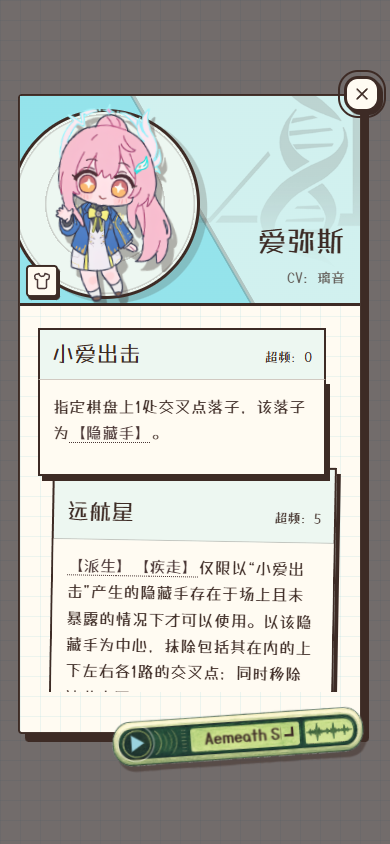
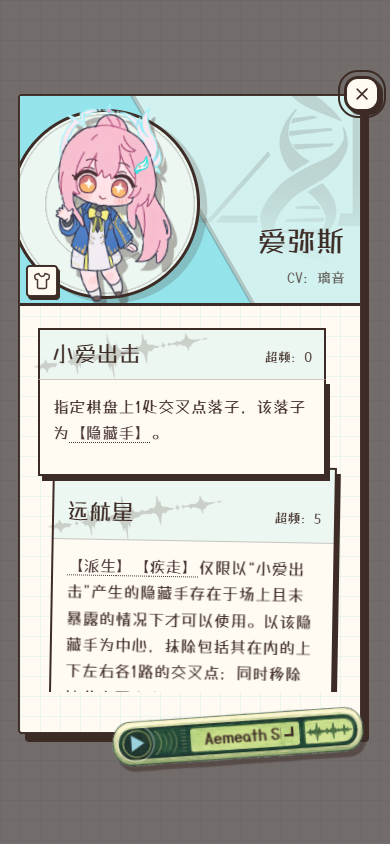
feat(ui): add tacet mark to character skill cards

diff --git a/docs/system-design.html b/docs/system-design.html
@@ -54,7 +54,7 @@
 <body>
 <h1>SigrikaGo 系统设计</h1>
 <h3>2026-10-22 角色详情游戏展示三版样板</h3>
-<p>按「游戏角色页，不是说明文」的反馈重做<a href="./design-samples/handbook-paper-2026-10-22/index.html">部员手册角色详情比较页</a>：角色展示台强调大立绘、角色专色和圆形底台；战术卡册使用深墨角色卡与专色环纹；漫画分镜采用网点、爆发纹和尖角对白框。第1版进一步加入角落超大裁切徽记与原网格背景，立绘底板用当前主题色与浅色近似各半拼接，交界参照父技能卡与派生卡的叠放关系，用同主题浅色细边和短实阴影表现前层压住后层，斜线边缘以小于1px的颜色覆盖平滑锯齿；手机分割线从上往下切割并相对竖直方向倾斜约30度，放大收音机悬在右下并将关闭按钮中心放在右上纸角；正文滚动区为外伸控件预留空间。关闭按钮进一步对齐项目常用圆角方形纸色与墨边硬阴影，悬停不显示额外外圈、保留键盘焦点反馈；派生卡错位叠在父技能下方，标题与正文分色，简介悬停取消下划线并在左上加入无外围短线的手绘黑白棋装饰。收音机播放／暂停键悬停不再改变图标与圆环颜色，保留各播放状态的颜色、按下和焦点反馈。隐藏获得途径、去掉CV下划线；手机立绘居左、姓名与CV居右下，服装入口为立绘区左下角贴边6px的32px小方形图标按钮，优先减少对立绘的遮挡。三版保留墨色厚阴影、悬停／按下反馈与手机竖屏布局，技能名、超频、CV 和获得方式仍不使用标签式圆角矩形。第1版现已接入正式角色详情：复用衣柜、音乐、特性说明、肖像解析及既有阵营映射，保留语音、Escape和焦点返回。CSS由原角色详情入口统一导入layout/art/heading/cards/controls五个限定范围的owner；徽记仅对已拥有且有映射的角色启用，棋子装饰迁移到公共UI资源，视口留白包含安全区。比较页仍使用公开目录快照和内存预览状态，不连接账号写入。布局取舍与验证见<a href="./design-samples/handbook-paper-2026-10-22/README.md">样板说明</a>。</p>
+<p>按「游戏角色页，不是说明文」的反馈重做<a href="./design-samples/handbook-paper-2026-10-22/index.html">部员手册角色详情比较页</a>：角色展示台强调大立绘、角色专色和圆形底台；战术卡册使用深墨角色卡与专色环纹；漫画分镜采用网点、爆发纹和尖角对白框。第1版进一步加入角落超大裁切徽记与原网格背景，立绘底板用当前主题色与浅色近似各半拼接，交界参照父技能卡与派生卡的叠放关系，用同主题浅色细边和短实阴影表现前层压住后层，斜线边缘以小于1px的颜色覆盖平滑锯齿；手机分割线从上往下切割并相对竖直方向倾斜约30度，放大收音机悬在右下并将关闭按钮中心放在右上纸角；正文滚动区为外伸控件预留空间。关闭按钮进一步对齐项目常用圆角方形纸色与墨边硬阴影，悬停不显示额外外圈、保留键盘焦点反馈；派生卡错位叠在父技能下方，标题与正文分色，简介悬停取消下划线并在左上加入无外围短线的手绘黑白棋装饰。收音机播放／暂停键悬停不再改变图标与圆环颜色，保留各播放状态的颜色、按下和焦点反馈。技能卡左上新增高清透明声痕底纹，普通技与派生技共用，淡墨色置于技能名背后，简介保留黑白棋装饰以区分卡片类型；素材来源及高清化记录见<a href="./design-samples/handbook-paper-2026-10-22/tacet-mark-source.md">声痕素材说明</a>。隐藏获得途径、去掉CV下划线；手机立绘居左、姓名与CV居右下，服装入口为立绘区左下角贴边6px的32px小方形图标按钮，优先减少对立绘的遮挡。三版保留墨色厚阴影、悬停／按下反馈与手机竖屏布局，技能名、超频、CV 和获得方式仍不使用标签式圆角矩形。第1版现已接入正式角色详情：复用衣柜、音乐、特性说明、肖像解析及既有阵营映射，保留语音、Escape和焦点返回。CSS由原角色详情入口统一导入layout/art/heading/cards/controls五个限定范围的owner；徽记仅对已拥有且有映射的角色启用，棋子装饰迁移到公共UI资源，视口留白包含安全区。比较页仍使用公开目录快照和内存预览状态，不连接账号写入。布局取舍与验证见<a href="./design-samples/handbook-paper-2026-10-22/README.md">样板说明</a>。</p>
 <h3>2026-10-22 观战纸卡正式接入</h3>
 <p>已将确认的<a href="./design-samples/watch-paper-2026-10-22/index.html">观战纸卡方案</a>接入正式 <code>WatchModal</code>。搜索框与好友一体纸框保持一致，无额外聚焦边框，继续输入即时筛选且不增加搜索按钮；卡片保留厚阴影及悬停／按下反馈。已结束对局使用浅灰背景，悬停与按下仍保持灰色，保留原观战入口、头像、身份、人数及手数吊牌。手机每场一张卡，<code>useWatchListRows</code> 按可用高度与名称自然高度安排完整行，保留滚动吸附和阴影余量。查询、刷新、错误恢复与入场流程不变；独立预览已改用生产样式与 hook，仍仅提供本地示例房间。桌面／竖屏与结束状态验证见<a href="./design-samples/watch-paper-2026-10-22/README.md">说明及截图</a>，布局契约见 <a href="./system-design/06-ui-theme-mobile.md">UI 主题分篇</a>。</p>
 <h3>2026-10-22 仓库纸卡布局正式接入</h3>

diff --git a/src/styles/cssLayerInventory.js b/src/styles/cssLayerInventory.js
@@ -1,3 +1,4 @@
+// 2026-10-22: handbook skill-title Tacet Mark adds 410 normalized CSS bytes; other metrics are unchanged.
 // 2026-10-22: approved handbook detail stage replaces the figure owner with five bounded owners; task-only delta {"totalFiles":5,"totalBytes":15608,"importantCount":229,"importantFiles":4,"hardcodedHexCount":2,"mediaFiles":4,"reducedMotionFiles":2,"highZIndexFiles":0}.
 // 2026-10-14: explicit match confirmation, practice dialogue and focus preference; {"totalFiles": 2, "totalBytes": 5667, "importantCount": 29, "importantFiles": 2, "hardcodedHexCount": 0, "mediaFiles": 2, "reducedMotionFiles": 0, "highZIndexFiles": 0}
 // 2026-10-10: team profile polish reuses existing owners; {"totalBytes": 717, "importantCount": 39, "hardcodedHexCount": -2}
@@ -12,7 +13,7 @@ export const CSS_DEBT_BASELINE = {
   scope: "Window loading adds 1035 normalized bytes, three targeted important declarations and reduced-motion coverage in the existing empty-state owner. Ordinary button states replace three repeated selector lists with one nested state owner, add complete press/focus/disabled/reduced-motion rules, and retire generic icon/action motion selectors. Specialty button opt-in removes dossier, purchase and recruitment state duplication while retaining artwork and geometry. All CSS files under src/styles after the import-only split work, including the focused normal/corrupted theme-transition visual structure and reduced-motion owners, the focused corrupted-duel atmosphere, panel, timer, control, icon, secondary-surface, mobile-readability, portaled system-log, lifecycle, replay/result, and dialogue/fake-skill presentation owners, the ten focused production IRIS Database V2 entry/shell/greeting/portrait/archive/record/theme/typography owners with image-free desktop/mobile art reservations and the scoped Dotted Songti Circle plus WuWa Latin/numeric font stack, the shared and Bright School character-music-player subdomains with the transparent hand-painted radio shell, contained alpha-safe asset geometry, and painted-circle control alignment, admin story node settings CSS and story workbook import feedback, frontend layout polish contracts including story-player padding, game-mode icon watermark/player-plaque/nameplate/utility image contracts, the asset-owned open-starlight rune-ink Semantic Ignition with a persistent rim, separated open-center left-to-right filaments/contour streams, and paired right-tail streaks, Danya off-center pearlescent dream bubble, and Aemeath paper-flight beacon nameplate shells plus their reduced-motion owners, Aemeath exact-ID ice-white username treatment, separated paper-wake and perimeter traces, paired right-tail light, the board-owned Aemeath rainbow grid-trace and particle owners with their reduced-motion fallback, the owned-only holographic memorial-ticket action, isolated Pink Cyber Angel sprite-atlas recruitment cinematic, player-mailbox text-only low-chrome list, completion-state dimming, quiet paper reader, independent item/coin tiles, portaled shop-style item detail, quantity/claimed overlays, light-green mail toast, claimed-attachment action state, and final post-theme readability contract, stable desktop utility-art tilt with direction-preserving hover rotation and scale compensation, tutorial reply-option overflow containment, mobile announcement badge anchoring, mobile utility-image feedback containment, the semantic Bright School login header with its responsive mascot-panel composition and extended layered paper-rule shelf, the dedicated 900px mobile-layout login mascot lockup owner plus accessible auth field, password-visibility, pending, short-height scrolling, and reduced-motion rules, the shared orange preload fill-flow, borderless warm-glow, upright endpoint-glide, and disabled password-toggle centering owners, the shared/theme/final-mobile Zahira shop window plus card-layout isolation, compact-height, badge, desktop raster background, dedicated portrait raster background, and enlarged mascot-copy owner files, the deep-red theatrical costume storefront with a separate card/art owner, portaled wardrobe dialog, split responsive wardrobe layout, Bright School costume overlay owners, and home-scoped portrait width guard, cloud-deployment mobile floating layer tokens, transform-surface compositor hints, semantic home/window title typography, the full-width 16px watch-mode tabs with one-em room-count spacing, the final Bright School practice-entry rotation, reduced-motion behavior, and home-utility hard-shadow parity owner, the shared skill-trait description popover, admin glossary, mobile character-detail scrolling owner rules, the scoped Bright School root scrollbar, final portrait modal shadow-gutter, admin neutral scrollbar owners, and the Bright School unobtained-roster monochrome CRT surface, hidden-intel monitor, and shared signal-fault motion owners.",
   metrics: {
     totalFiles: 763,
-    totalBytes: 1771904,
+    totalBytes: 1772314,
     importantCount: 10554,
     importantFiles: 416,
     hardcodedHexCount: 2490,

diff --git a/src/styles/mobile-adaptive/handbook-detail-cards.css b/src/styles/mobile-adaptive/handbook-detail-cards.css
@@ -1,5 +1,20 @@
 .character-detail-figure-backdrop,
 .app-shell.player-theme-enabled.theme-bright-school.theme-bright-school .character-detail-figure-backdrop {
+  .skill-title-row { position: relative; isolation: isolate; }
+  .skill-title-row::before {
+    content: "";
+    position: absolute;
+    z-index: -1;
+    top: -14px;
+    left: -9px;
+    width: 180px;
+    height: 72px;
+    background: var(--detail-ink);
+    mask: url('/assets/ui/handbook-tacet-mark.png') center / contain no-repeat;
+    opacity: .2;
+    transform: rotate(-9deg);
+    pointer-events: none;
+  }
   .skill-title-row { display: flex !important; align-items: baseline !important; flex-wrap: wrap !important; justify-content: space-between !important; gap: 6px 18px !important; border-radius: 0 !important; box-shadow: none !important; padding: 9px 12px !important; margin: 0 !important; border: 2px solid var(--detail-ink) !important; border-bottom: 0 !important; background: var(--detail-tint) !important; }
   .skill-title-row strong { display: inline !important; padding: 0 !important; border: 0 !important; border-radius: 0 !important; background: transparent !important; font: 400 23px/1.4 var(--font-window-title) !important; text-decoration-color: color-mix(in srgb, var(--character-theme-color) 48%, transparent); text-decoration-thickness: 5px; text-underline-offset: -2px; text-decoration-skip-ink: none; font-size: 25px !important; text-decoration: none !important; }
   .skill-overclock-badge { display: inline !important; min-height: 0 !important; padding: 0 !important; border: 0 !important; border-radius: 0 !important; background: transparent !important; box-shadow: none !important; color: var(--detail-ink) !important; font: 400 14px/1.5 var(--font-ui-default) !important; }

diff --git a/docs/system-design.md b/docs/system-design.md
@@ -2,7 +2,7 @@
 
 ### 2026-10-22 角色详情游戏展示三版样板
 
-按「游戏角色页，不是说明文」的反馈重做[部员手册角色详情比较页](./design-samples/handbook-paper-2026-10-22/index.html)：角色展示台强调大立绘、角色专色和圆形底台；战术卡册使用深墨角色卡与专色环纹；漫画分镜采用网点、爆发纹和尖角对白框。第1版进一步加入角落超大裁切徽记与原网格背景，立绘底板用当前主题色与浅色近似各半拼接，交界参照父技能卡与派生卡的叠放关系，用同主题浅色细边和短实阴影表现前层压住后层，斜线边缘以小于1px的颜色覆盖平滑锯齿；手机分割线从上往下切割并相对竖直方向倾斜约30度，放大收音机悬在右下并将关闭按钮中心放在右上纸角；正文滚动区为外伸控件预留空间。关闭按钮进一步对齐项目常用圆角方形纸色与墨边硬阴影，悬停不显示额外外圈、保留键盘焦点反馈；派生卡错位叠在父技能下方，标题与正文分色，简介悬停取消下划线并在左上加入无外围短线的手绘黑白棋装饰。收音机播放／暂停键悬停不再改变图标与圆环颜色，保留各播放状态的颜色、按下和焦点反馈。隐藏获得途径、去掉CV下划线；手机立绘居左、姓名与CV居右下，服装入口为立绘区左下角贴边6px的32px小方形图标按钮，优先减少对立绘的遮挡。三版保留墨色厚阴影、悬停／按下反馈与手机竖屏布局，技能名、超频、CV 和获得方式仍不使用标签式圆角矩形。第1版现已接入正式角色详情：复用衣柜、音乐、特性说明、肖像解析及既有阵营映射，保留语音、Escape和焦点返回。CSS由原角色详情入口统一导入layout/art/heading/cards/controls五个限定范围的owner；徽记仅对已拥有且有映射的角色启用，棋子装饰迁移到公共UI资源，视口留白包含安全区。比较页仍使用公开目录快照和内存预览状态，不连接账号写入。布局取舍与验证见[样板说明](./design-samples/handbook-paper-2026-10-22/README.md)。
+按「游戏角色页，不是说明文」的反馈重做[部员手册角色详情比较页](./design-samples/handbook-paper-2026-10-22/index.html)：角色展示台强调大立绘、角色专色和圆形底台；战术卡册使用深墨角色卡与专色环纹；漫画分镜采用网点、爆发纹和尖角对白框。第1版进一步加入角落超大裁切徽记与原网格背景，立绘底板用当前主题色与浅色近似各半拼接，交界参照父技能卡与派生卡的叠放关系，用同主题浅色细边和短实阴影表现前层压住后层，斜线边缘以小于1px的颜色覆盖平滑锯齿；手机分割线从上往下切割并相对竖直方向倾斜约30度，放大收音机悬在右下并将关闭按钮中心放在右上纸角；正文滚动区为外伸控件预留空间。关闭按钮进一步对齐项目常用圆角方形纸色与墨边硬阴影，悬停不显示额外外圈、保留键盘焦点反馈；派生卡错位叠在父技能下方，标题与正文分色，简介悬停取消下划线并在左上加入无外围短线的手绘黑白棋装饰。收音机播放／暂停键悬停不再改变图标与圆环颜色，保留各播放状态的颜色、按下和焦点反馈。技能卡左上新增高清透明声痕底纹，普通技与派生技共用，淡墨色置于技能名背后，简介保留黑白棋装饰以区分卡片类型；素材来源及高清化记录见[声痕素材说明](./design-samples/handbook-paper-2026-10-22/tacet-mark-source.md)。隐藏获得途径、去掉CV下划线；手机立绘居左、姓名与CV居右下，服装入口为立绘区左下角贴边6px的32px小方形图标按钮，优先减少对立绘的遮挡。三版保留墨色厚阴影、悬停／按下反馈与手机竖屏布局，技能名、超频、CV 和获得方式仍不使用标签式圆角矩形。第1版现已接入正式角色详情：复用衣柜、音乐、特性说明、肖像解析及既有阵营映射，保留语音、Escape和焦点返回。CSS由原角色详情入口统一导入layout/art/heading/cards/controls五个限定范围的owner；徽记仅对已拥有且有映射的角色启用，棋子装饰迁移到公共UI资源，视口留白包含安全区。比较页仍使用公开目录快照和内存预览状态，不连接账号写入。布局取舍与验证见[样板说明](./design-samples/handbook-paper-2026-10-22/README.md)。
 
 ### 2026-10-22 观战纸卡正式接入
 

diff --git a/.trellis/spec/frontend/handbook-puzzle-contract.md b/.trellis/spec/frontend/handbook-puzzle-contract.md
@@ -32,6 +32,8 @@ Base Denia rainbow candy art uses the native 832x1216 animation and the same chi
 
 ## Detail carrier
 
+Skill title rows use the transparent /assets/ui/handbook-tacet-mark.png as a decorative alpha mask behind the name at the upper-left. The same mark identifies base and derived skills; the description retains its separate go-stone decoration. Tint with the existing detail ink at low opacity, keep text above it in an isolated stacking context, disable pointer events and preserve layout dimensions. Source and imagegen processing are recorded in docs/design-samples/handbook-paper-2026-10-22/tacet-mark-source.md.
+
 The approved detail stage uses two character-color planes with a light, antialiased hard edge, a circular portrait backing and a large clipped official faction emblem. Resolve the emblem through CHARACTER_FACTIONS/FACTION_EMBLEMS only for an owned mapped character; retain the existing alpha-strength compensation. The paper copy area preserves the theme grid, rectangular title/body skill cards and offset derived cards partially tucked under the parent. Remove acquisition metadata and filled tag labels. CV and description hover have no underline; the description's upper-left decoration is /assets/ui/handbook-go-stones.svg. Keep the existing real portrait resolver and costume framing.
 
 Keep the existing skill, CV, description, music and wardrobe actions. Portal the detail overlay to `.app-shell` outside handbook clipping. The art reservation clips its rotated contained portrait; the shell allows the enlarged radio to extend across its lower-right corner and the close-button center to sit on its upper-right corner. Budget viewport/safe-area space for both controls and their shadows. Only copy scrolls, with bottom clearance for the radio; the last text must remain reachable. Portrait mobile keeps the figure left, identity lower-right, a 30-degree-from-vertical plane edge and a 32px square wardrobe button inset 6px at the art's lower left (18px icon). This user-approved compact trigger deliberately has no fixed 44px minimum. Long names use a taller art reservation. Radio playback-state colors remain stable on hover; close hover has no added outer outline, while keyboard focus remains visible. Keep wardrobe and music picker layers above the detail overlay. `ModalDialog` owns Escape, keyboard containment and focus restoration. The figure entry imports five bounded layout/art/heading/cards/controls owners with reduced-motion support; do not add another parallel override layer.

diff --git a/docs/design-samples/handbook-paper-2026-10-22/tacet-mark-source.md b/docs/design-samples/handbook-paper-2026-10-22/tacet-mark-source.md
@@ -1,0 +1,15 @@
+# 技能卡声痕素材
+
+- 检索与处理日期：2026-10-22。
+- 图案参考：[Seeklogo — Tacet Mark Wuthering Wave](https://seeklogo.com/vector-logo/676655/tacet-mark-wuthering-wave)。这是社区整理参考，不标作官方源文件。
+- 下载地址：`https://images.seeklogo.com/logo-png/67/1/tacet-mark-wuthering-wave-logo-png_seeklogo-676655.png`。
+- 原始下载为600×600 PNG，保存在本目录 `tacet-mark-source.png`。
+- 术语核对：[Tacet Mark / 声痕](https://wutheringwaves.fandom.com/wiki/Tacet_Mark)。图案属于《鸣潮》声痕的视觉参考，不代表每个角色的专属声痕形态。
+- 最终资源：`public/assets/ui/handbook-tacet-mark.png`，2079×756透明PNG。使用内置imagegen参考重建并去白底，保留非对称声波尖峰、间隔与小菱形。
+- 生产渲染：`handbook-detail-cards.css` 中仅对技能标题的伪元素使用alpha mask，映射到已有 `--detail-ink`，20%透明度、180×72px、轻微倾斜，位于技能名背后。忽略原图RGB边缘颜色，不添加标签、动画或点击区域；简介保留独立的黑白棋装饰。
+
+## 处理提示词
+
+内置 `imagegen` 编辑模式，参考图为上述下载文件，`transparent_background: true`：
+
+> Edit target: the attached black Wuthering Waves Tacet Mark symbol on a white square. Produce a high-resolution, clean, tightly framed TRANSPARENT PNG cutout of precisely this same symbol for a game UI. Preserve the reference's exact asymmetric waveform silhouette, number and position of the separated clusters, small diamond interruptions, narrow horizontal connections, tiny split tips and all major spikes; do not redesign, regularize, mirror or simplify the symbol. Remove ALL the white background and excess square canvas. Enlarge and reconstruct crisp, smooth antialiased edges, solid opaque near-black ink, no white fringe. Landscape canvas roughly 4:1, the mark fills about 92% of width with modest transparent margins and enough top/bottom clearance to preserve its tallest peaks. Target at least 2048 pixels wide. No other objects, no text, no border, no sticker outline, no paper, no shadows, no glow, no bevel, no gradients, no blur or grain. It will be tinted and set to low opacity in CSS behind a skill title, so output the mark only with a real alpha channel.

diff --git a/.trellis/tasks/10-22-handbook-tacet-mark/prd.md b/.trellis/tasks/10-22-handbook-tacet-mark/prd.md
@@ -1,0 +1,27 @@
+# 声痕素材与技能卡标识
+
+## Goal
+用鸣潮声痕区分角色详情中的技能卡与简介卡，把高清透明声痕放在技能卡左上、技能名背后。
+
+## Requirements
+- 联网寻找真实声痕参考，记录素材来源；高清化时保留可识别轮廓，输出透明PNG并保存在项目中。
+- 普通技与派生技的标题使用同一种声痕底纹，简介继续使用现有黑白棋装饰。
+- 底纹使用项目墨色、适度透明；名称与超频文字可读，不遮挡点击，不改变卡片高度与派生叠放。
+- 桌面及320/390px竖屏检查实际显示与长标题状态。保留已有布局、交互、服装按钮和主题色。
+- 同步系统设计与素材处理记录，只提交本次范围。
+
+## Decisions
+- 使用Seeklogo上的横向Tacet Mark社区整理参考，imagegen高清重建透明底；不声称来源为官方原始资源。
+- 通过CSS alpha mask把PNG统一映射到现有墨色；不增加徽章标签、动画或新交互。
+
+## Acceptance
+- [x] 高清透明素材、来源和处理提示词保存在仓库。
+- [x] 普通技及派生技标题显示声痕，简介不显示；名称清晰，移动端不溢出。
+- [x] 必要检查通过，相关文档同步。
+
+## Verification
+- 内置imagegen输出2079×756透明PNG，245802字节；alpha实测有效，生产构建输出同时包含资源与正确CSS路径。
+- 1440/390/320px实测普通技、派生技伪元素的mask、层级、透明度、鼠标穿透；简介仍用棋子SVG；长技能名未横向溢出。更新三张production截图。
+- 23项CSS/手册样式测试、lint、build和built-css检查通过。CSS仅净增410字节，无新增文件、important、硬编码色值或媒体查询。
+- 浏览器布局套件14项首轮通过；最后一项320px衣柜检查因页面导航销毁执行上下文中断，单项重跑通过。未改动测试或业务来规避该临时错误。
+- 本次仅样式与资源调整，未重复上轮3317项完整单元测试；既有后台默认快照差异未纳入本次范围。

diff --git a/docs/design-samples/handbook-paper-2026-10-22/README.md b/docs/design-samples/handbook-paper-2026-10-22/README.md
@@ -42,6 +42,8 @@
 
 第1版已按上述最终修订接入正式 `CharacterDetailDialog`。正式样式由 `handbook-detail-figure.css` 入口及 layout/art/heading/cards/controls 五个 owner 承担，棋子装饰使用 `/assets/ui/handbook-go-stones.svg`；此比较页保留设计过程，方向2/3没有接入正式窗口。
 
+技能标题现加入高清透明声痕底纹（普通技和派生技共用），放在左上、技能名背后；简介继续使用黑白棋，帮助区分两种卡片。参考来源、高清化提示词和渲染方式见[声痕素材记录](./tacet-mark-source.md)。
+
 正式检查覆盖桌面和800/390/360/320px视口、长姓名、派生技、无音乐、未拥有、换装，以及衣柜和音乐曲目单的焦点返回。正式窗口可通过 `tests/e2e/fixtures/handbook-puzzle.html?costumes&music` 在本地无账号环境验证。
 
 正式样式截图（`preview.html?view=current`，沿用公开角色快照、不加载样板覆盖）：[桌面](./production-1440.png)、[手机派生技能](./production-390.png)、[320px小屏](./production-320.png)。浏览器回归命令为 `npx playwright test --config tests/e2e/handbook-window-layout.config.js`，覆盖15项布局和既有操作检查。
